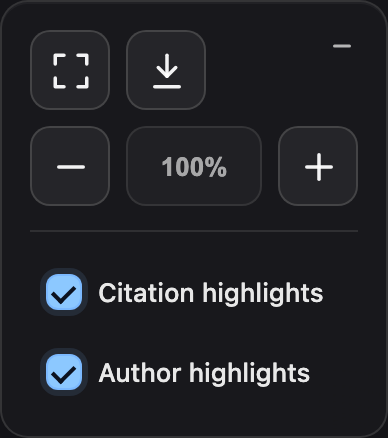
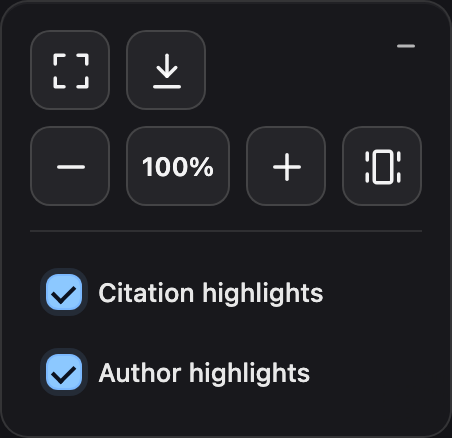
better zoom

diff --git a/src/viewer/PdfViewer.tsx b/src/viewer/PdfViewer.tsx
@@ -49,15 +49,20 @@ interface TooltipState {
 }
 
 const SCALE = 1.5;
-const ZOOM_MIN = 0.5;
+const ZOOM_MIN = 0.25;
 const ZOOM_MAX = 3;
 const ZOOM_STEP = 1.2;
+/** Trackpad pinches arrive as ctrl+wheel events; this converts deltaY to a
+ * zoom factor. Commit is debounced so the expensive re-render runs once per
+ * gesture, not per event. */
+const PINCH_SENSITIVITY = 0.01;
+const PINCH_COMMIT_DELAY_MS = 180;
 const CANVAS_QUALITY_SCALE = 1.5;
 const MIN_CANVAS_OUTPUT_SCALE = 2;
 const MAX_CANVAS_OUTPUT_SCALE = 4;
 const MAX_CANVAS_PIXELS = 20_000_000;
 const TOOLTIP_HIDE_DELAY_MS = 180;
-const EXPANDED_CONTROLS_WIDTH = 208;
+const EXPANDED_CONTROLS_WIDTH = 226;
 const EXPANDED_CONTROLS_HEIGHT = 224;
 const CONTROLS_OFFSET = 16;
 
@@ -93,10 +98,66 @@ export function PdfViewer({
   const [controlsMenuOpen, setControlsMenuOpen] = useState(false);
   const [controlsManuallyMinimized, setControlsManuallyMinimized] = useState(false);
   const [zoom, setZoom] = useState(1);
+  /** Live zoom during a pinch gesture, shown in the % field before commit. */
+  const [pendingZoom, setPendingZoom] = useState<number | null>(null);
+  /** Text in the % field while the user is typing; null when not editing. */
+  const [zoomEditText, setZoomEditText] = useState<string | null>(null);
+  /** Escape blurs the field synchronously, before React flushes the state
+   * reset — this flag tells the blur handler not to commit. */
+  const zoomEditCancelledRef = useRef(false);
   const prevDocRef = useRef<PDFDocumentProxy | null>(null);
+  const prevZoomRef = useRef(1);
+  const zoomRef = useRef(1);
+  const pendingZoomRef = useRef<number | null>(null);
+  const pinchCommitTimerRef = useRef<ReturnType<typeof setTimeout> | null>(null);
+  /** Page to align after the next re-render (set by zoom-to-fit). */
+  const snapPageRef = useRef<number | null>(null);
+
+  useEffect(() => {
+    zoomRef.current = zoom;
+  }, [zoom]);
 
   function zoomBy(factor: number) {
     setZoom((z) => clampZoom(Math.round(z * factor * 100) / 100));
+  }
+
+  function commitZoomText(text: string) {
+    setZoomEditText(null);
+    const parsed = Number.parseInt(text.replace(/[^\d]/g, ""), 10);
+    if (!Number.isFinite(parsed) || parsed <= 0) return;
+    setZoom(clampZoom(Math.round(parsed) / 100));
+  }
+
+  /** Fits the page nearest the viewport center entirely inside the viewport
+   * (both top and bottom visible), then aligns it there after re-render. */
+  function zoomToFitPage() {
+    const scrollEl = scrollRef.current;
+    const container = containerRef.current;
+    if (!scrollEl || !container) return;
+    const pageEls = [...container.querySelectorAll<HTMLElement>(".pdf-page")];
+    if (pageEls.length === 0) return;
+    const scrollRect = scrollEl.getBoundingClientRect();
+    const viewportCenter = scrollRect.top + scrollEl.clientHeight / 2;
+    const currentPage =
+      pageEls.find((el) => {
+        const r = el.getBoundingClientRect();
+        return r.top <= viewportCenter && r.bottom >= viewportCenter;
+      }) ??
+      pageEls.find((el) => el.getBoundingClientRect().bottom > scrollRect.top) ??
+      pageEls[0];
+    const rect = currentPage.getBoundingClientRect();
+    const ratio = Math.min(
+      (scrollEl.clientHeight - 24) / rect.height,
+      (scrollEl.clientWidth - 16) / rect.width,
+    );
+    const next = clampZoom(Math.round(zoom * ratio * 100) / 100);
+    const pageNumber = Number(currentPage.dataset.pageNumber) || 1;
+    if (next === zoom) {
+      alignPageInViewport(scrollEl, currentPage);
+      return;
+    }
+    snapPageRef.current = pageNumber;
+    setZoom(next);
   }
 
   function cancelTooltipHide() {
@@ -143,6 +204,35 @@ export function PdfViewer({
   useEffect(() => {
     if (!showCitationHighlights) closeTooltip();
   }, [showCitationHighlights]);
+
+  // Trackpad pinch (and ctrl+mouse-wheel) zooms the PDF instead of the whole
+  // page. Must be a non-passive listener so the browser-level zoom can be
+  // prevented. The commit is debounced: the % display tracks the gesture live,
+  // the actual re-render happens once the fingers pause.
+  useEffect(() => {
+    const scrollEl = scrollRef.current;
+    if (!scrollEl) return;
+    const onWheel = (e: WheelEvent) => {
+      if (!e.ctrlKey) return;
+      e.preventDefault();
+      const current = pendingZoomRef.current ?? zoomRef.current;
+      const next = clampZoom(current * Math.exp(-e.deltaY * PINCH_SENSITIVITY));
+      pendingZoomRef.current = next;
+      setPendingZoom(next);
+      if (pinchCommitTimerRef.current) clearTimeout(pinchCommitTimerRef.current);
+      pinchCommitTimerRef.current = setTimeout(() => {
+        pinchCommitTimerRef.current = null;
+        pendingZoomRef.current = null;
+        setPendingZoom(null);
+        setZoom(clampZoom(Math.round(next * 100) / 100));
+      }, PINCH_COMMIT_DELAY_MS);
+    };
+    scrollEl.addEventListener("wheel", onWheel, { passive: false });
+    return () => {
+      scrollEl.removeEventListener("wheel", onWheel);
+      if (pinchCommitTimerRef.current) clearTimeout(pinchCommitTimerRef.current);
+    };
+  }, []);
 
   useEffect(() => {
     let frame = 0;
@@ -228,17 +318,37 @@ export function PdfViewer({
     if (!container) return;
     // Browser-like navigation: a newly opened document starts at the top.
     // Re-renders of the same document (zoom, highlight toggles) instead keep
-    // the reader's place by restoring the proportional scroll offset.
+    // the reader's place: the old scroll offset scales with the zoom ratio,
+    // and is restored as soon as enough pages have rendered (pages append
+    // below, so an early restore stays put). Zoom-to-fit overrides this with
+    // an exact page alignment.
     const sameDoc = prevDocRef.current === doc;
     prevDocRef.current = doc;
+    const zoomRatio = zoom / prevZoomRef.current;
+    prevZoomRef.current = zoom;
+    const snapPage = sameDoc ? snapPageRef.current : null;
+    snapPageRef.current = null;
     const scrollEl = scrollRef.current;
-    const scrollFraction =
-      sameDoc && scrollEl && scrollEl.scrollHeight > 0
-        ? scrollEl.scrollTop / scrollEl.scrollHeight
-        : 0;
+    const targetTop = sameDoc && scrollEl ? scrollEl.scrollTop * zoomRatio : 0;
+    let scrollRestored = !sameDoc || (snapPage === null && targetTop <= 0);
     container.innerHTML = "";
     setRenderError(null);
     scrollEl?.scrollTo({ top: 0 });
+
+    const tryRestoreScroll = (renderedPage: number, pageDivs: Map<number, HTMLElement>) => {
+      if (scrollRestored || !scrollEl) return;
+      if (snapPage !== null) {
+        const div = pageDivs.get(snapPage);
+        if (renderedPage < snapPage || !div) return;
+        alignPageInViewport(scrollEl, div);
+        scrollRestored = true;
+        return;
+      }
+      if (scrollEl.scrollHeight >= targetTop + scrollEl.clientHeight) {
+        scrollEl.scrollTo({ top: targetTop });
+        scrollRestored = true;
+      }
+    };
 
     (async () => {
       const renderedPages = new Set<number>();
@@ -347,10 +457,13 @@ export function PdfViewer({
           markers,
           authorMarkers,
         );
+        tryRestoreScroll(pageText.pageNumber, renderedPageDivs);
       }
       if (isStale()) return;
-      if (sameDoc && scrollFraction > 0 && scrollEl) {
-        scrollEl.scrollTo({ top: scrollFraction * scrollEl.scrollHeight });
+      if (!scrollRestored && scrollEl) {
+        scrollEl.scrollTo({
+          top: Math.min(targetTop, scrollEl.scrollHeight - scrollEl.clientHeight),
+        });
       }
       setRenderVersion((v) => v + 1);
     })().catch((err) => {
@@ -596,16 +709,39 @@ export function PdfViewer({
           <path d="M5 12h14" />
         </svg>
       </button>
-      <button
-        type="button"
+      <input
         className="pdf-zoom-level"
-        onClick={() => setZoom(1)}
-        disabled={zoom === 1}
-        title="Reset zoom to 100%"
-        aria-label={`Zoom level ${Math.round(zoom * 100)}%, click to reset`}
-      >
-        {Math.round(zoom * 100)}%
-      </button>
+        type="text"
+        inputMode="numeric"
+        value={zoomEditText ?? `${Math.round((pendingZoom ?? zoom) * 100)}%`}
+        onFocus={(e) => {
+          const input = e.currentTarget;
+          setZoomEditText(String(Math.round(zoom * 100)));
+          setTimeout(() => input.select(), 0);
+        }}
+        onChange={(e) => setZoomEditText(e.currentTarget.value)}
+        onKeyDown={(e) => {
+          if (e.key === "Enter") {
+            commitZoomText(e.currentTarget.value);
+            e.currentTarget.blur();
+          } else if (e.key === "Escape") {
+            zoomEditCancelledRef.current = true;
+            setZoomEditText(null);
+            e.currentTarget.blur();
+          }
+        }}
+        onBlur={(e) => {
+          if (zoomEditCancelledRef.current) {
+            zoomEditCancelledRef.current = false;
+            return;
+          }
+          if (zoomEditText !== null) commitZoomText(e.currentTarget.value);
+        }}
+        title={`Zoom level (${ZOOM_MIN * 100}–${ZOOM_MAX * 100}%) — type a percentage and press Enter`}
+        aria-label="Zoom percentage"
+        spellCheck={false}
+        autoComplete="off"
+      />
       <button
         type="button"
         className="pdf-icon-button"
@@ -617,6 +753,21 @@ export function PdfViewer({
         <svg viewBox="0 0 24 24" aria-hidden="true">
           <path d="M12 5v14" />
           <path d="M5 12h14" />
+        </svg>
+      </button>
+      <button
+        type="button"
+        className="pdf-icon-button"
+        onClick={zoomToFitPage}
+        title="Fit page in window (top and bottom visible)"
+        aria-label="Fit page in window"
+      >
+        <svg viewBox="0 0 24 24" aria-hidden="true">
+          <rect x="7" y="3" width="10" height="18" rx="1.5" />
+          <path d="M3 8V4" />
+          <path d="M3 20v-4" />
+          <path d="M21 8V4" />
+          <path d="M21 20v-4" />
         </svg>
       </button>
     </div>
@@ -752,6 +903,16 @@ function getDevicePixelRatio(): number {
 
 function clampZoom(zoom: number): number {
   return Math.min(ZOOM_MAX, Math.max(ZOOM_MIN, zoom));
+}
+
+/** Scrolls so `pageDiv` sits fully in view: pages shorter than the viewport
+ * get equal margins above and below; taller ones align their top. */
+function alignPageInViewport(scrollEl: HTMLElement, pageDiv: HTMLElement): void {
+  const scrollRect = scrollEl.getBoundingClientRect();
+  const pageRect = pageDiv.getBoundingClientRect();
+  const topInContent = pageRect.top - scrollRect.top + scrollEl.scrollTop;
+  const margin = Math.max(0, (scrollEl.clientHeight - pageRect.height) / 2);
+  scrollEl.scrollTo({ top: Math.max(0, topInContent - margin) });
 }
 
 function canvasOutputScale(width: number, height: number, devicePixelRatio: number): number {

diff --git a/src/viewer/pdfViewer.css b/src/viewer/pdfViewer.css
@@ -15,7 +15,7 @@
   left: 16px;
   z-index: 80;
   width: max-content;
-  margin: 0 0 -172px 16px;
+  margin: 0 0 -220px 16px;
   padding: 14px;
   border: 1px solid rgba(255, 255, 255, 0.12);
   border-radius: 14px;
@@ -187,29 +187,32 @@
 
 .pdf-zoom-level {
   flex: 1;
-  min-width: 56px;
+  width: 52px;
+  min-width: 52px;
   height: 40px;
-  padding: 0 8px;
+  padding: 0 4px;
   border: 1px solid rgba(255, 255, 255, 0.14);
   border-radius: 10px;
   background: rgba(255, 255, 255, 0.055);
   color: rgba(255, 255, 255, 0.95);
+  font: inherit;
   font-size: 13px;
   font-weight: 600;
-  cursor: pointer;
+  text-align: center;
   transition:
     background-color 170ms ease,
     border-color 170ms ease;
 }
 
-.pdf-zoom-level:hover:not(:disabled) {
+.pdf-zoom-level:hover {
   background: rgba(255, 255, 255, 0.1);
   border-color: rgba(255, 255, 255, 0.2);
 }
 
-.pdf-zoom-level:disabled {
-  cursor: default;
-  opacity: 0.65;
+.pdf-zoom-level:focus-visible {
+  outline: none;
+  border-color: rgba(122, 184, 255, 0.82);
+  background: rgba(255, 255, 255, 0.08);
 }
 
 .pdf-control-divider {

diff --git a/website/usage.html b/website/usage.html
@@ -167,16 +167,22 @@
         <h2>Reading controls</h2>
         <p>
           The floating controls in the top-left corner of the PDF handle the reading view:
-          fullscreen, download, <strong>zoom in / out</strong> (the percentage button resets to
-          100%), and toggles for the citation and author highlights if you’d rather see the PDF’s
-          original links. When space is tight the controls collapse into a single button that
-          expands on click.
+          fullscreen, download, <strong>zoom</strong>, and toggles for the citation and author
+          highlights if you’d rather see the PDF’s original links. When space is tight the
+          controls collapse into a single button that expands on click. Zoom works four ways:
         </p>
+        <ul>
+          <li><strong>Pinch</strong> on the trackpad (or Ctrl + mouse wheel) over the PDF.</li>
+          <li>The <strong>− / +</strong> buttons.</li>
+          <li><strong>Type a percentage</strong> into the % field and press Enter (25–300%).</li>
+          <li><strong>Fit page</strong> — the rightmost button scales the current page so its top and bottom are both in view, centered in the window.</li>
+        </ul>
+        <p>Zooming keeps your reading position in the document.</p>
         <figure class="guide-figure narrow">
           <img
             src="assets/screenshots/pdf-zoom-controls.png"
-            alt="Floating PDF controls: fullscreen and download icons, zoom out, 100% reset, zoom in, and highlight toggles."
-            width="194" height="219"
+            alt="Floating PDF controls: fullscreen and download icons, zoom out, editable percentage field, zoom in, fit page, and highlight toggles."
+            width="226" height="219"
           >
           <figcaption>PDF view controls: fullscreen, download, zoom, and highlight toggles.</figcaption>
         </figure>